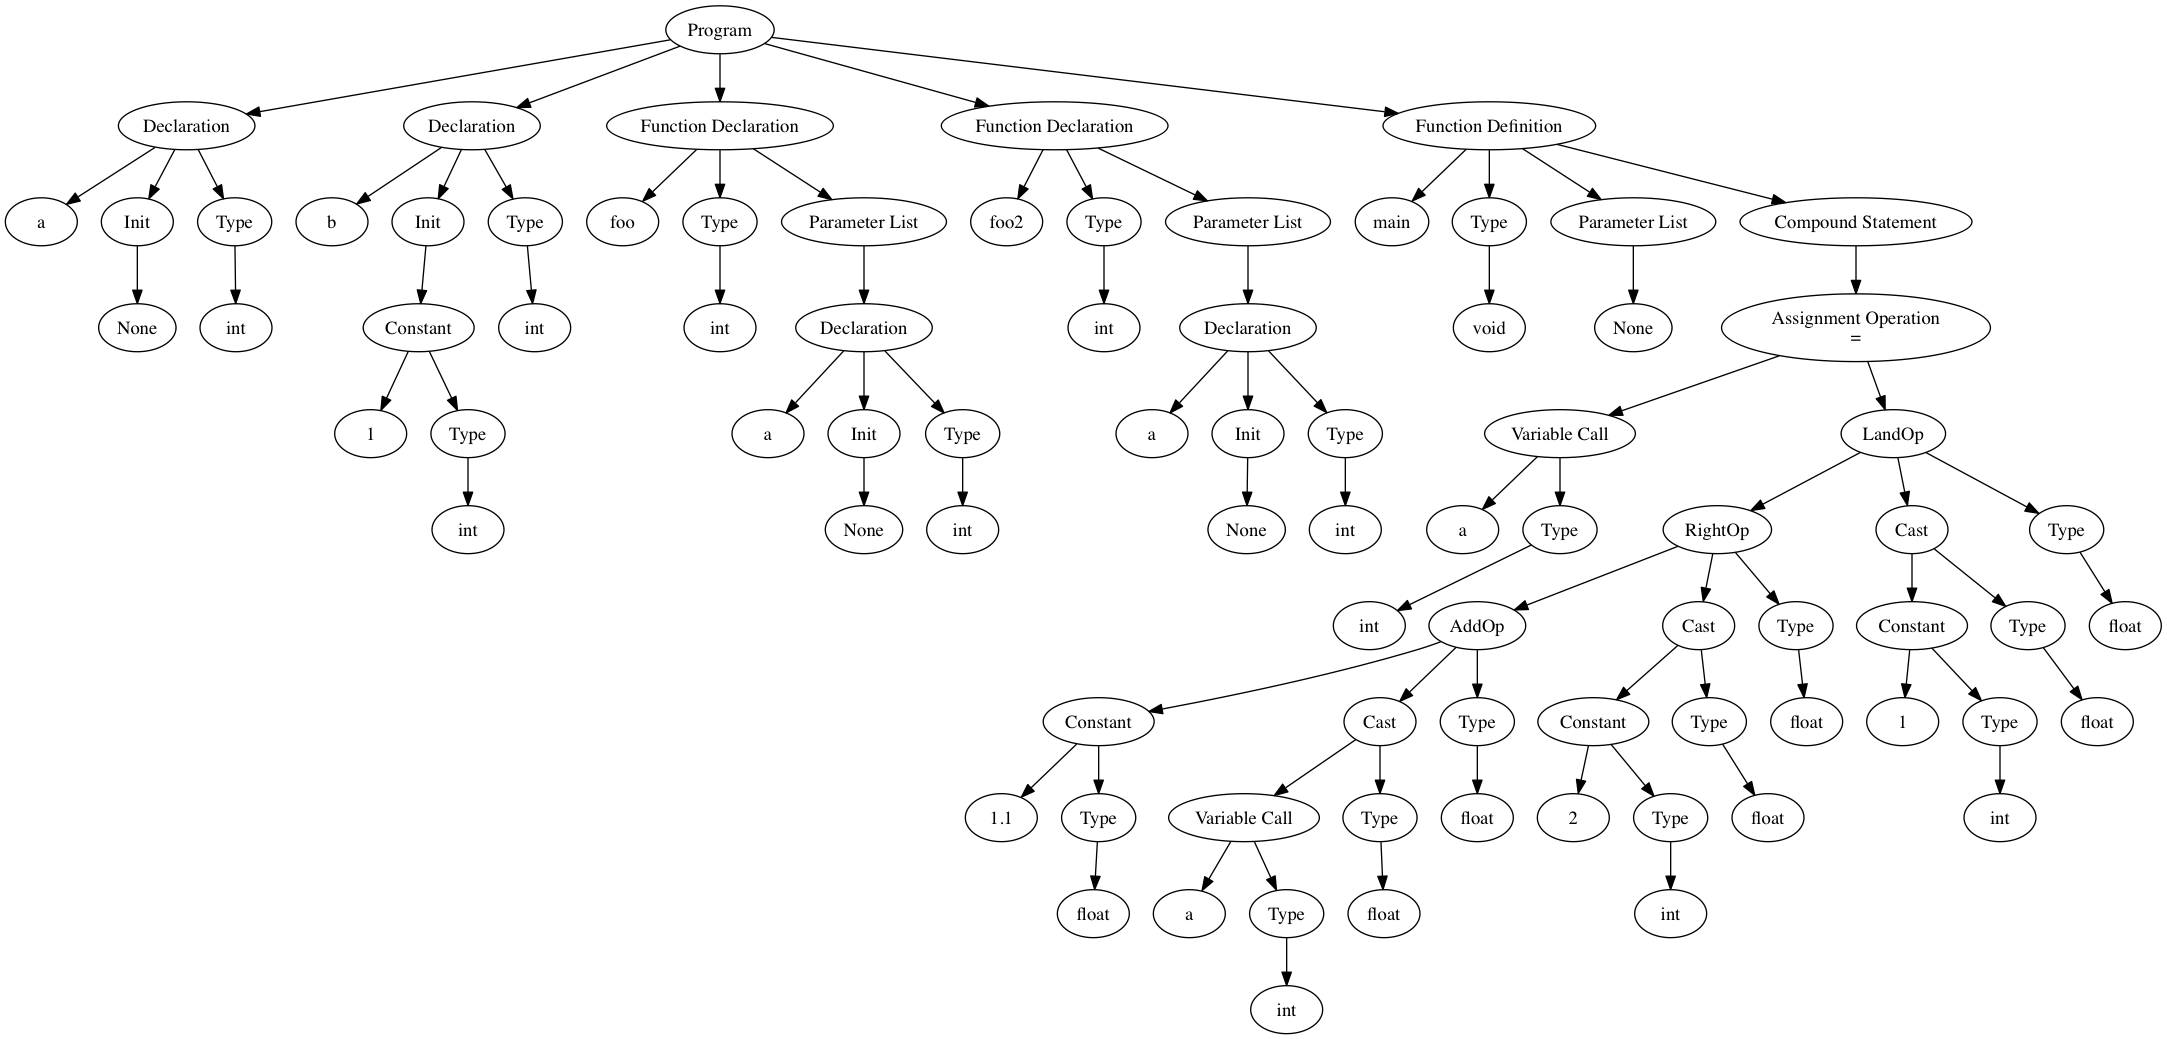
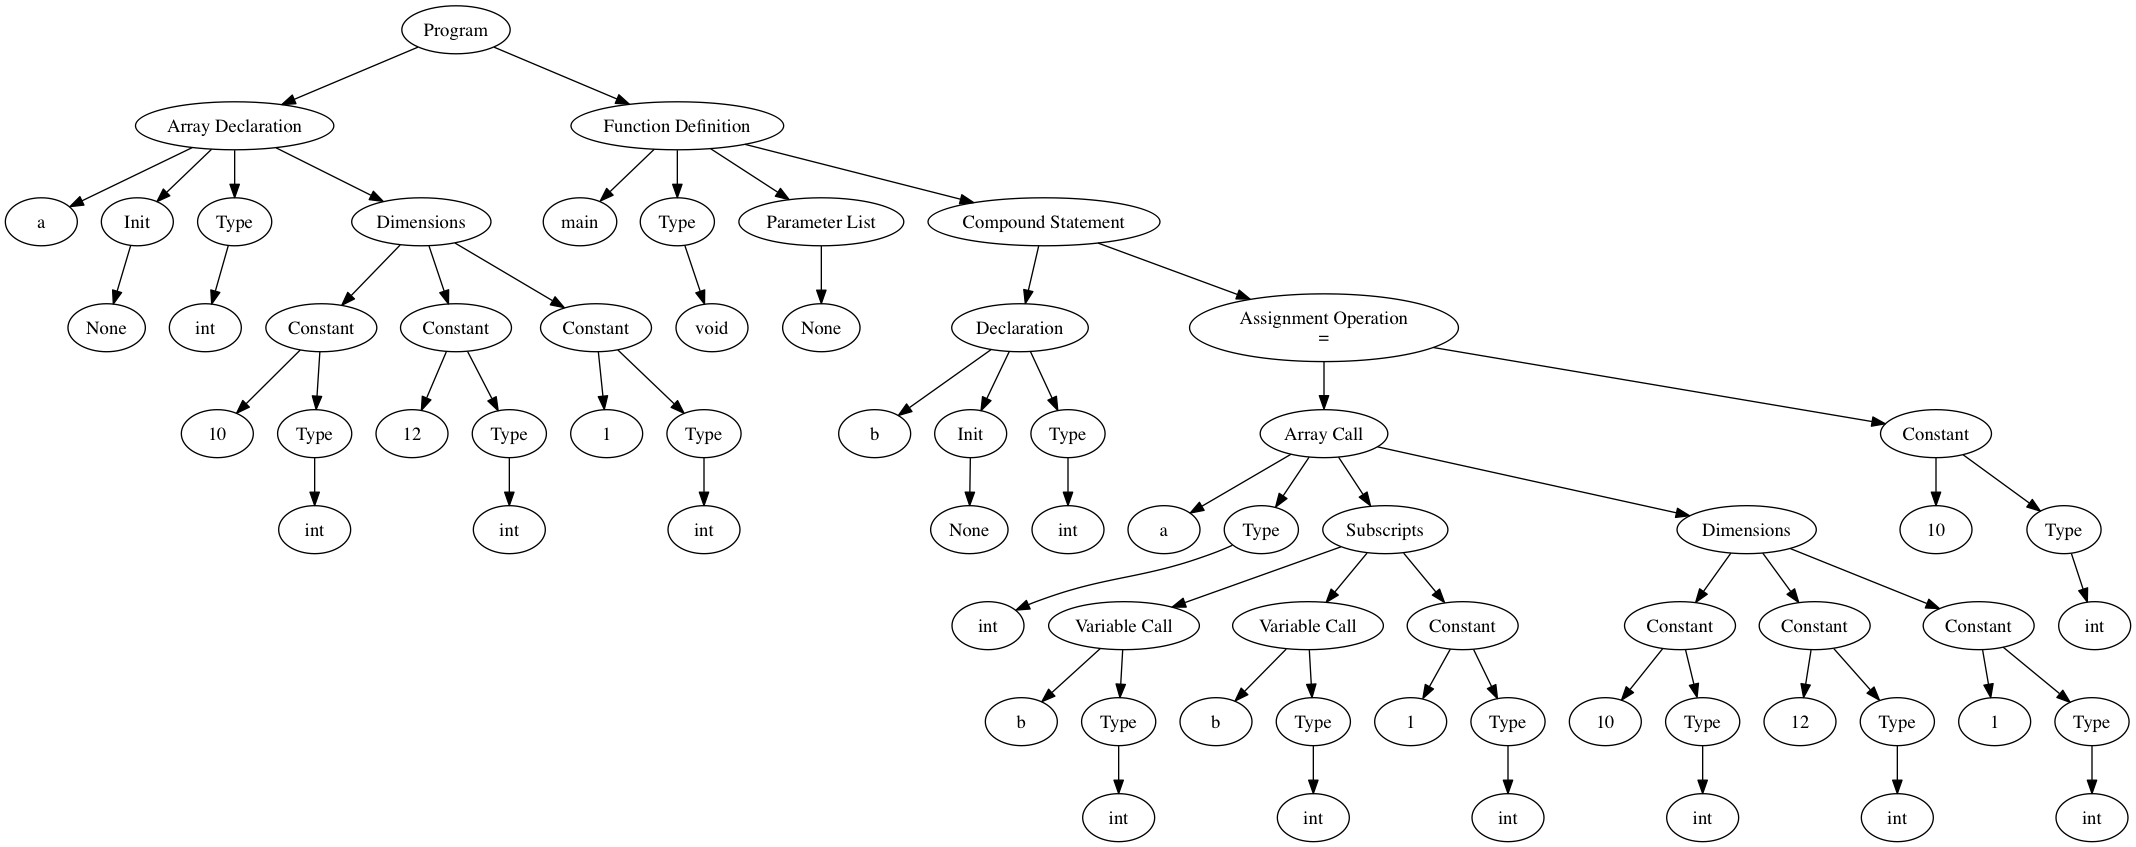
Have arrays declaring and calling working

diff --git a/astvisitor.py b/astvisitor.py
@@ -56,7 +56,6 @@ class GraphVizVisitor(NodeVisitor):
     def StringifyLabel(self,label,ticketlabel,braces=False):
 
         if braces:
-            #print braces
             return "{"+ticketlabel + "["+"label=" + '"' + label + '"'+ "]"+"}"
         return ticketlabel + "["+"label=" + '"' + label + '"'+ "]"
 
@@ -96,8 +95,6 @@ class GraphVizVisitor(NodeVisitor):
             string += self.AddBrackets(IterStmt) + "->" + self.AddBrackets(nextlabel) + ";\n"
             string += nextstring
         if node.stmt != None:
-            print "===================="
-            print node.stmt
             stmtstring, stmtlabel = self.visit(node.stmt)
             string += self.AddBrackets(IterStmt) + "->" + self.AddBrackets(stmtlabel) + ";\n"
             string += stmtstring
@@ -129,6 +126,7 @@ class GraphVizVisitor(NodeVisitor):
 
     def visit_AssignOp(self, node):
         label = self.StringifyLabel("Assignment Operation\n=", self.ticket.GetNextTicket())
+        print(node.left)
         leftstring, leftlabel = self.visit(node.left)
         rightstring, rightlabel = self.visit(node.right)
         string = self.AddBrackets(label) + "->" + self.AddBrackets(leftlabel, rightlabel)
@@ -143,13 +141,13 @@ class GraphVizVisitor(NodeVisitor):
             labels += label + " "
             string += value
         return string, labels.strip()
+
     def visit_EmptyStatement(self,node):
-        print "!!!!!!!!!!!!!!!!"
         emptyticket = self.ticket.GetNextTicket()
         emptylabel = self.StringifyLabel("Empty Statment",emptyticket)
         return "",emptylabel
+
     def visit_Func(self,node):
-        #print "Func"
         self.visit(node.function)
         return ""
 
@@ -166,6 +164,7 @@ class GraphVizVisitor(NodeVisitor):
         return "",""
     def visit_If(self,node):
         return "",""
+
     def visit_FuncDef(self,node):
         typestring,typelabel = self.visit(node.type)
         paramstring, paramlabel = self.visit(node.ParamList)
@@ -176,7 +175,6 @@ class GraphVizVisitor(NodeVisitor):
         for i in node.expression:
             if(i == None):
                 continue
-            print i
             cs, cl = self.visit(i)
             compoundstring += cs
             compoundlabel += cl + " "
@@ -221,12 +219,62 @@ class GraphVizVisitor(NodeVisitor):
         return self.AddBrackets(name) + "->" + self.AddBrackets(varname, typelabel) + ";\n" + typestring, name
 
     def visit_ArrDecl(self,node):
-        ticket = self.ticket.GetNextTicket()
-        string = 'Array'
-        for i in node.dim:
-            string += "["+str(i) + "]"
-        string = self.StringifyLabel(string,ticket,True)
-        return string, string
+
+        init = self.StringifyLabel('Init', self.ticket.GetNextTicket())
+        typestring, typelabel = self.visit(node.type)
+        dimensionlabel = self.StringifyLabel('Dimensions', self.ticket.GetNextTicket())
+
+
+        decllabel = self.StringifyLabel("Array Declaration", self.ticket.GetNextTicket())
+
+        string = self.AddBrackets(decllabel) + "->" + self.AddBrackets(self.StringifyLabel(node.name,self.ticket.GetNextTicket()), init, typelabel, dimensionlabel) + ';\n'
+        if node.init:
+            initstring,initlabel = self.visit(node.init)
+            string += self.AddBrackets(init) + "->" + self.AddBrackets(initlabel) + ";\n"
+            string += initstring
+        else:
+            string += self.AddBrackets(init) + "->" 
+            string += self.AddBrackets(self.StringifyLabel("None",self.ticket.GetNextTicket())) + ";\n"
+
+        dimlabel = self.AddBrackets(dimensionlabel) + "->{"
+        dimension = ""
+        for dim in node.dim:
+            dimstr, dimlab = self.visit(dim)
+            dimension += dimstr
+            dimlabel += dimlab + " "
+
+        dimlabel += "};\n"
+
+        return  string + typestring + dimension + dimlabel, decllabel
+
+    def visit_ArrRef(self, node):
+        name = self.StringifyLabel('Array Call', self.ticket.GetNextTicket())
+        dimensionlabel = self.StringifyLabel('Dimensions', self.ticket.GetNextTicket())
+        subscriptlabel = self.StringifyLabel('Subscripts', self.ticket.GetNextTicket())
+        varname = self.StringifyLabel(node.name, self.ticket.GetNextTicket())
+        typestring, typelabel = self.visit(node.type)
+
+        string = self.AddBrackets(name) + "->" + self.AddBrackets(varname, typelabel, subscriptlabel, dimensionlabel) + ";\n"
+
+        dimlabel = self.AddBrackets(dimensionlabel) + "->{"
+        dimension = ""
+        for dim in node.dim:
+            dimstr, dimlab = self.visit(dim)
+            dimension += dimstr
+            dimlabel += dimlab + " "
+
+        dimlabel += "};\n"
+
+        sublabel = self.AddBrackets(subscriptlabel) + "->{"
+        subscript = ""
+        for sub in node.subscript:
+            substr, sublab = self.visit(sub)
+            subscript += substr
+            sublabel += sublab + " "
+
+        sublabel += "};\n"
+
+        return string + typestring + dimension + dimlabel + subscript + sublabel, name
 
     def visit_Constant(self,node):
         constantticket = self.ticket.GetNextTicket()
@@ -245,13 +293,11 @@ class GraphVizVisitor(NodeVisitor):
         for nodes in node.NodeList:
 
             nodeString,nodeLabel = self.visit(nodes)
-            print "+++++++++++++++++++++++"
-            print nodeLabel
-            print nodeString
             string +=  self.AddBrackets(programlabel) + "->" + self.AddBrackets(nodeLabel)
             string += nodeString
         return string
-# &,|,<<,>>,^ 
+
+    # &,|,<<,>>,^ 
     def visit_Cast(self,node):
         nodename = node.__class__.__name__
         castticket = self.ticket.GetNextTicket()

diff --git a/cparser.py b/cparser.py
@@ -43,7 +43,33 @@ class Parser(Scanner):
 
     def p_postfix_expression_2(self, p):
         '''postfix_expression : postfix_expression '[' expression ']' '''
-        p[0] = p[1] #array checking gos here
+        if type(p[1]) != type(ArrRef(None, None, None, None)):
+            node = self.symbol_table.Retrieve(p[1].name)
+            if type(node) != type(ArrayNode()):
+                print("We Should Fail Because this is not an array access.")
+                sys.exit()
+
+            # ArrRef: [name,subscript*,type*,dim**]
+            typenode = Type([],[],[])
+            for i in node.GetType():
+                typenode.type.append(i)
+
+            for i in node.GetQualifiers():
+                typenode.qualifier.append(i)
+
+            dimension = []
+            for i in node.dimensions:
+                dimension.append(i)
+
+            p[0] = ArrRef(node.GetName(), [p[3]], typenode, dimension)
+        else:
+            p[1].subscript.append(p[3])
+
+            if len(p[1].subscript) > len(p[1].dim):
+                print("We need to fail due to n-array access on an (n-1)-array.")
+                sys.exit()
+
+            p[0] = p[1]
 
     def p_postfix_expression_3(self, p):
         '''postfix_expression : postfix_expression OPENPARAN CLOSEPARAN'''
@@ -907,7 +933,7 @@ class Parser(Scanner):
     def p_direct_declarator_4(self, p):
         '''direct_declarator : direct_declarator '[' ']' '''
         if type(p[1]) == type(VariableNode()):
-            p[1] = ArrayNode(type_var = p[1].GetType(), name = p[1].GetName(), line = p[1].GetLine(), line_loc = p[1].GetCharacterLocation(), dim = 1)
+            p[1] = ArrayNode(type_var = p[1].GetType(), name = p[1].GetName(), line = p[1].GetLine(), line_loc = p[1].GetCharacterLocation(), dim = Constant(Type(['int'], [], []), 0))
         else:
             #p[1].IncrementDimensions()
             pass

diff --git a/asttree.py b/asttree.py
@@ -256,28 +256,34 @@ class ArrDecl(Node):
 			nodelist.append(("type", self.type))
 		if self.init is not None:
 			nodelist.append(("init", self.init))
+		for i, child in enumerate(self.dim or []):
+			nodelist.append(("dim[%d]" % i, child))
 		return tuple(nodelist)
 
-	attr_names = ('name', 'dim', )
+	attr_names = ('name', )
 
 
 class ArrRef(Node):
-	__slots__ = ('name', 'subscript', 'coord', '__weakref__')
+	__slots__ = ('name', 'subscript', 'type', 'dim', 'coord', '__weakref__')
 
-	def __init__(self, name, subscript, coord=None):
+	def __init__(self, name, subscript, type, dim, coord=None):
 		self.name = name
 		self.subscript = subscript
+		self.type = type
+		self.dim = dim
 		self.coord = coord
 
 	def children(self):
 		nodelist = []
-		if self.name is not None:
-			nodelist.append(("name", self.name))
-		if self.subscript is not None:
-			nodelist.append(("subscript", self.subscript))
+		if self.type is not None:
+			nodelist.append(("type", self.type))
+		for i, child in enumerate(self.subscript or []):
+			nodelist.append(("subscript[%d]" % i, child))
+		for i, child in enumerate(self.dim or []):
+			nodelist.append(("dim[%d]" % i, child))
 		return tuple(nodelist)
 
-	attr_names = ()
+	attr_names = ('name', )
 
 
 class PtrDecl(Node):
